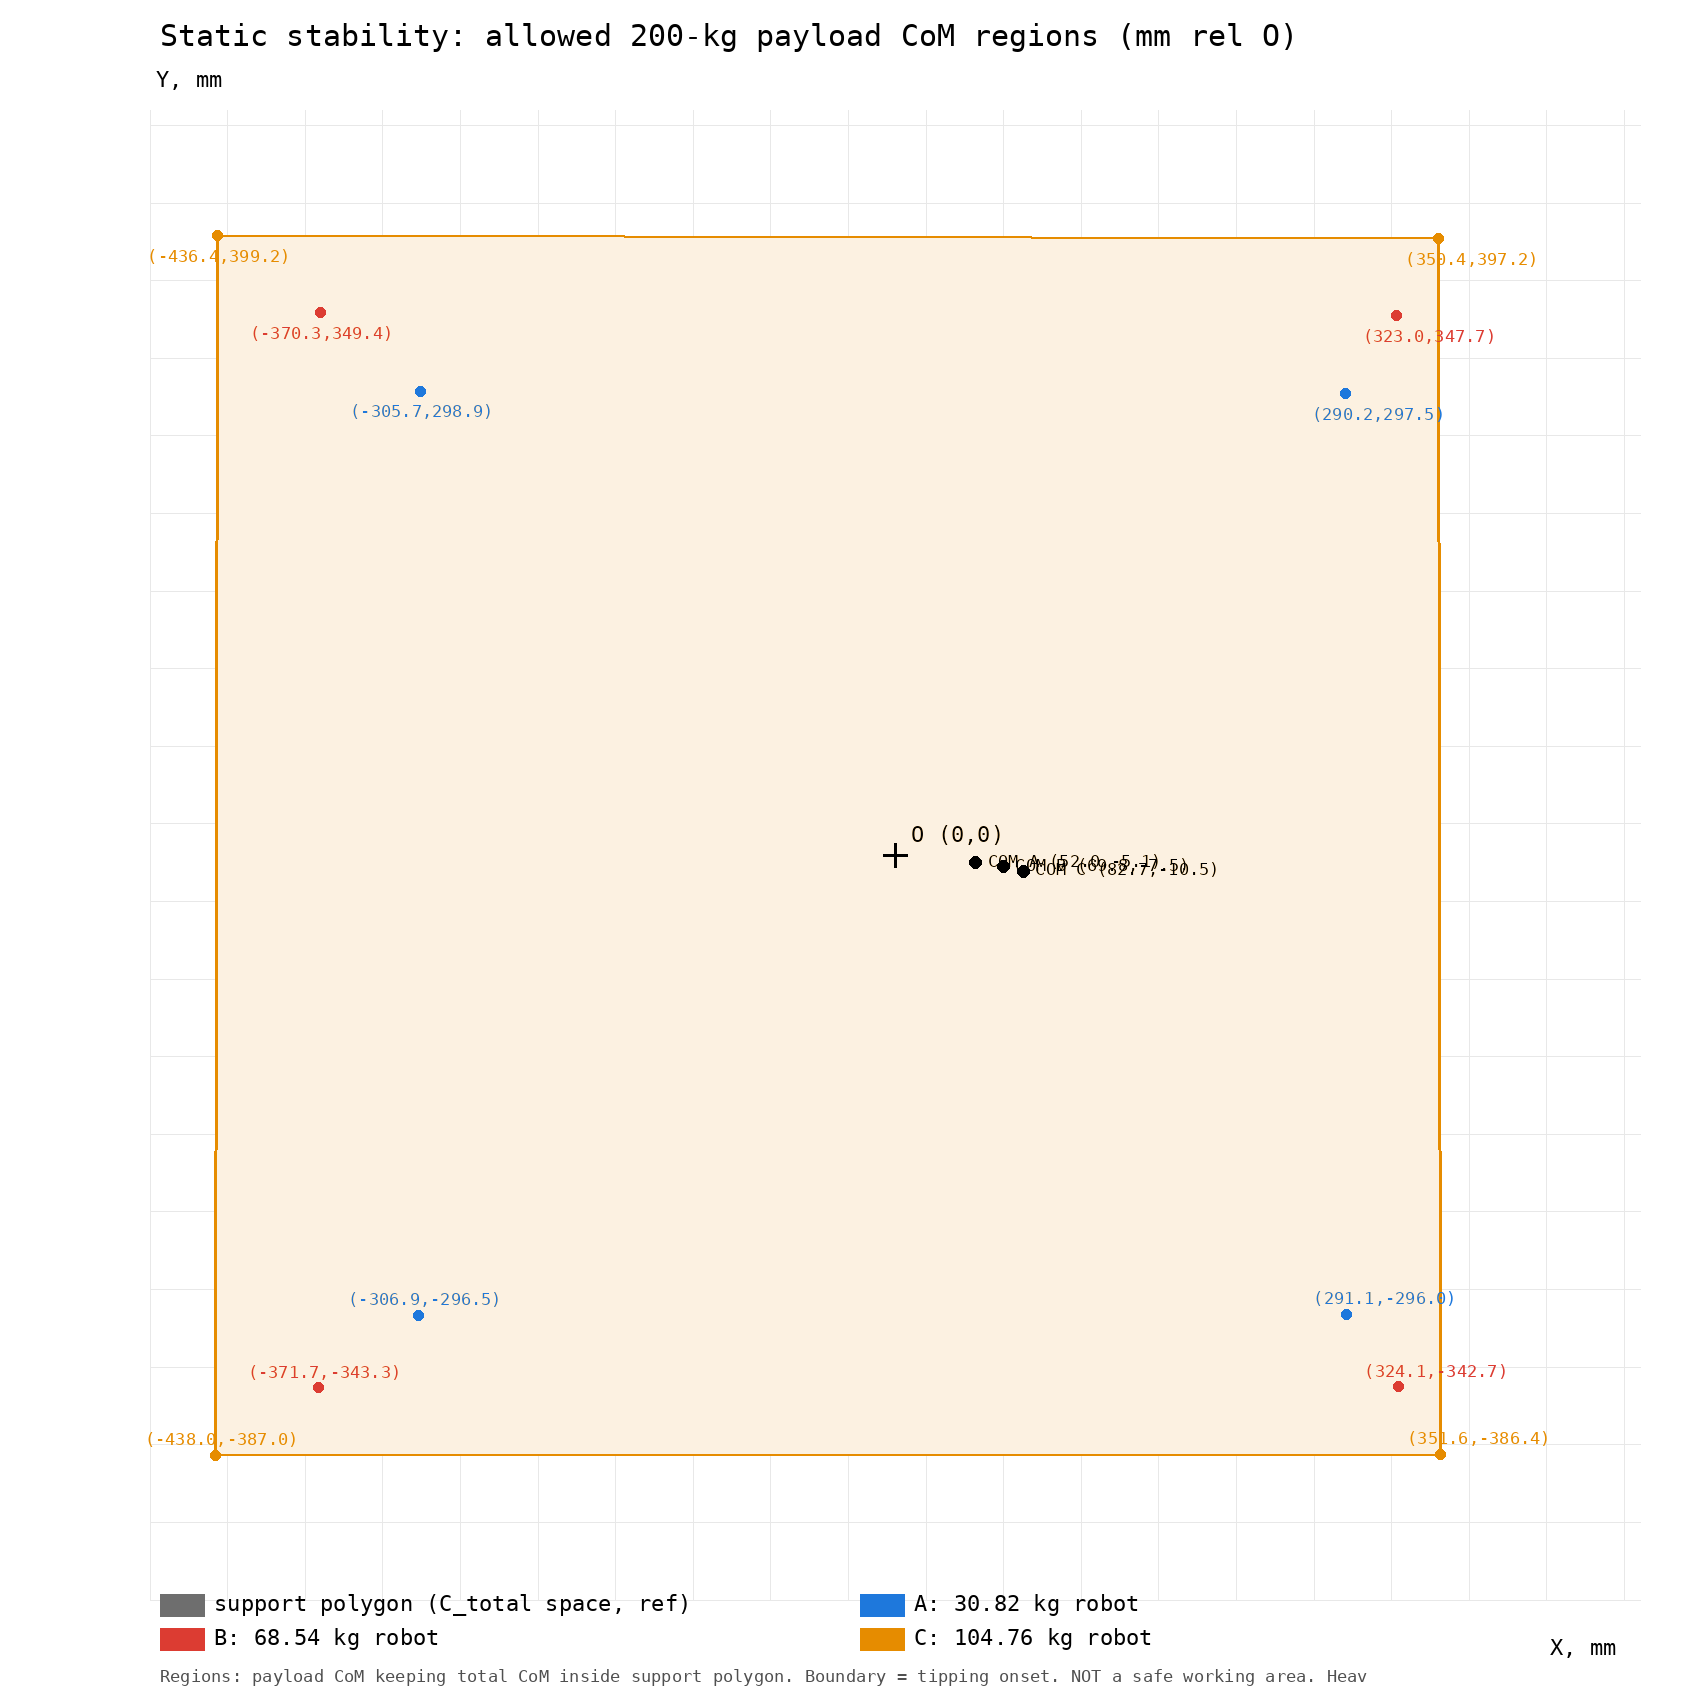
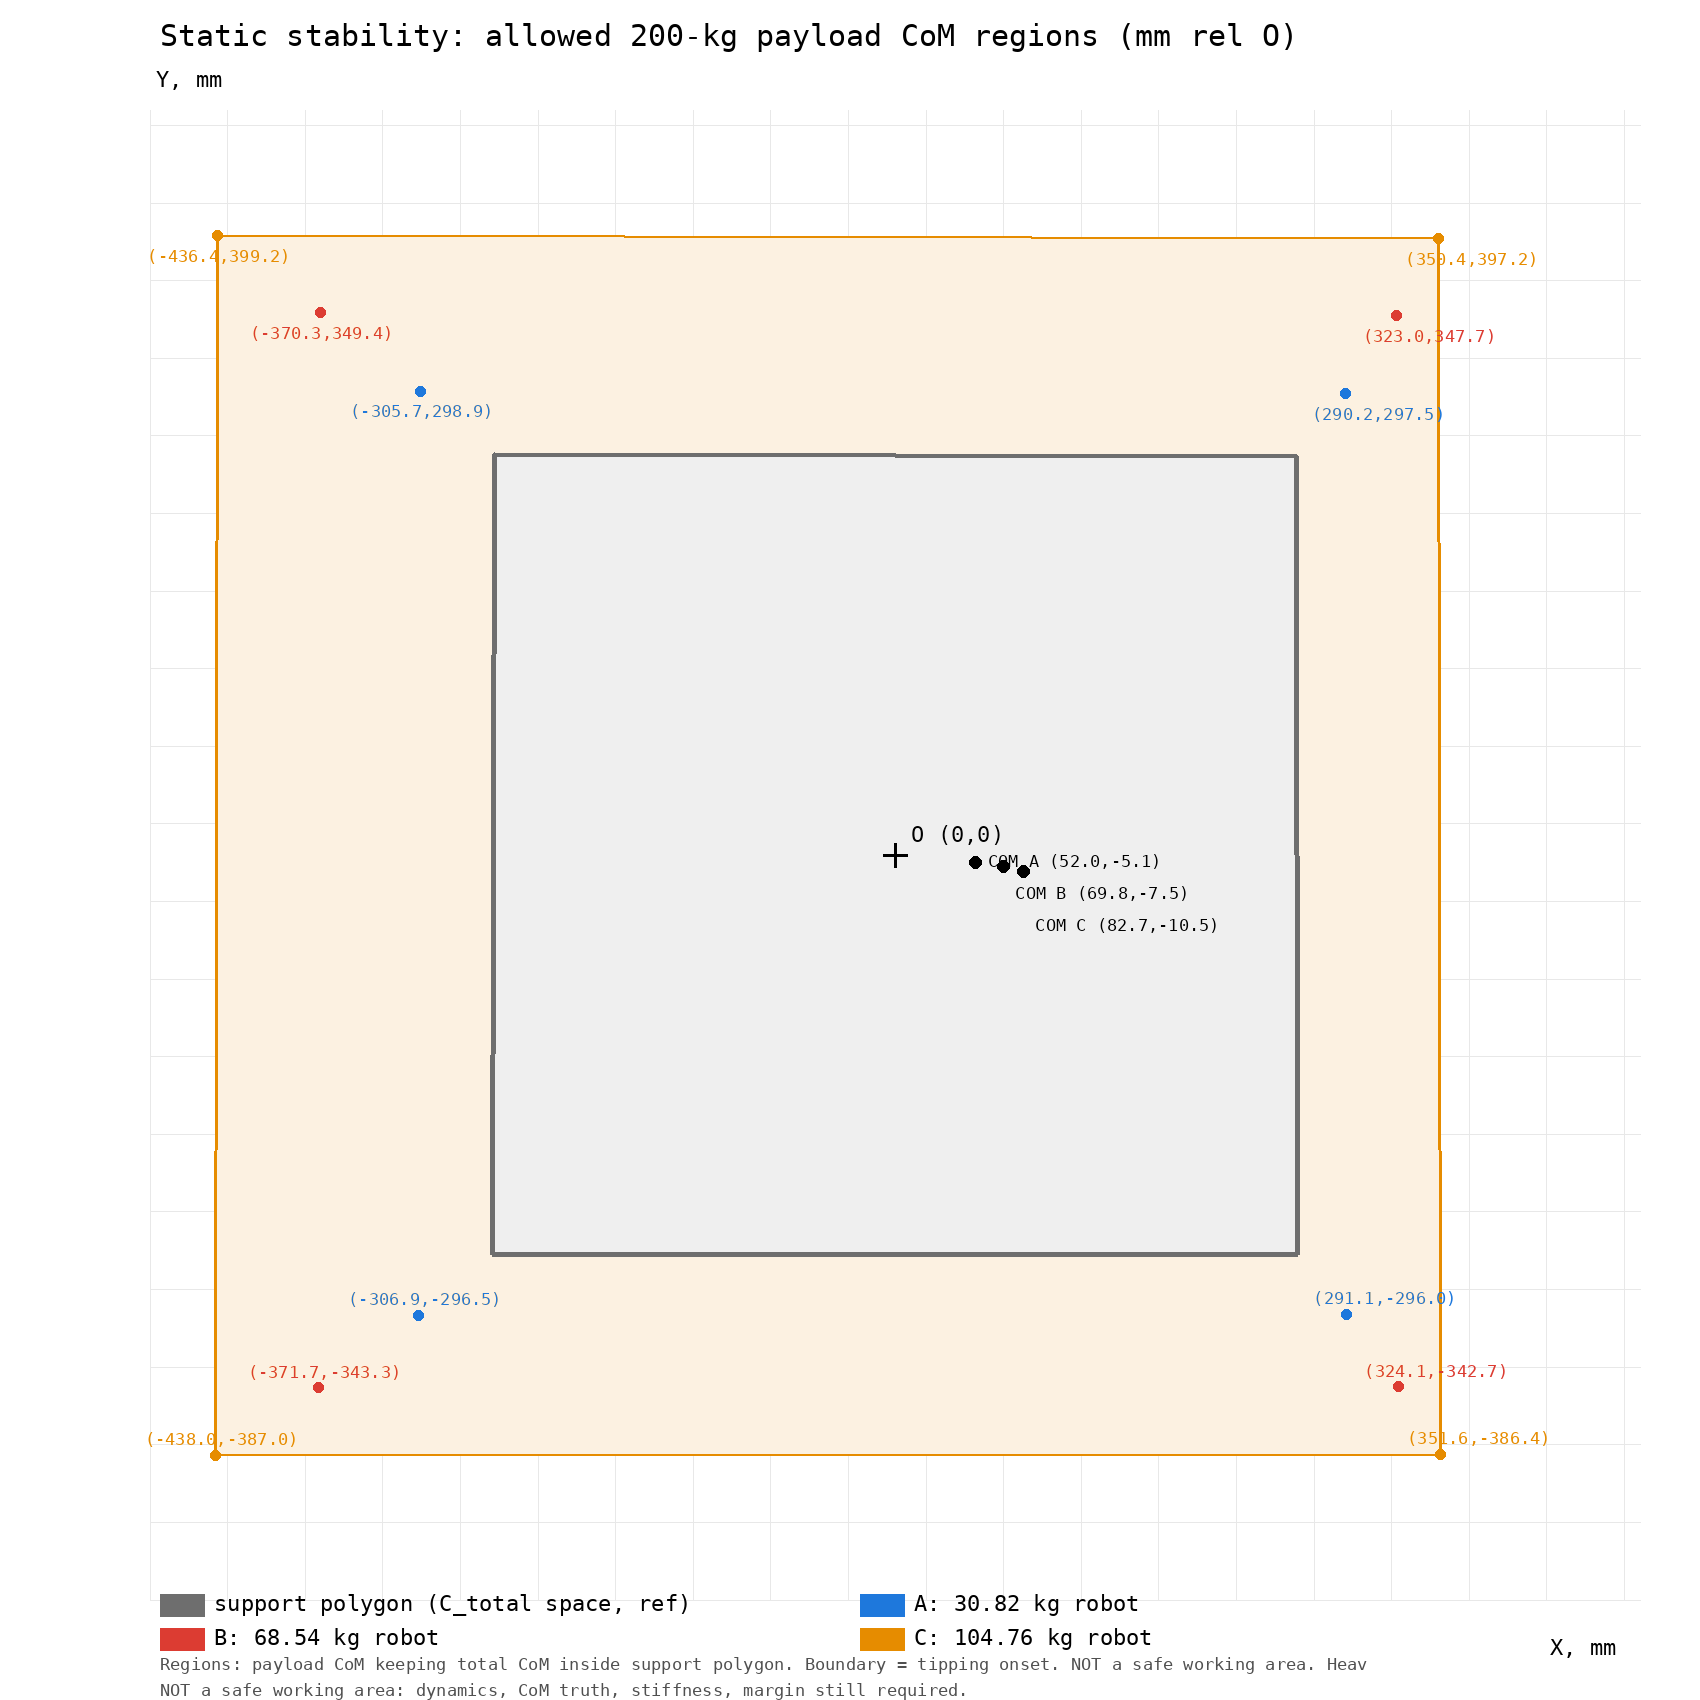
backup: payload CoM stability plot v2 + numbers

diff --git a/static_stability_payload_COM.py b/static_stability_payload_COM.py
@@ -85,9 +85,9 @@ def poly(pts, outline, fill, width=3):
     dr.line([mp(x, y) for x, y in pts] + [mp(*pts[0])], fill=outline, width=width, joint="curve")
 
 
-poly(SUP, COLORS["SUP"], COLORS["SUPF"])
 for s in "ABC":
     poly(REG[s]["P"], COLORS[s], COLORS[s + "F"])
+poly(SUP, COLORS["SUP"], COLORS["SUPF"], 5)
 
 for s in "ABC":
     pts = REG[s]["P"]
@@ -104,11 +104,12 @@ ox, oy = mp(0, 0)
 dr.line([ox - 12, oy, ox + 12, oy], fill=(0, 0, 0, 255), width=3)
 dr.line([ox, oy - 12, ox, oy + 12], fill=(0, 0, 0, 255), width=3)
 dr.text((ox + 16, oy - 34), "O (0,0)", font=f_leg, fill=(0, 0, 0, 255))
+OFF = {"A": (12, -12), "B": (12, 16), "C": (12, 44)}
 for s in "ABC":
     rx, ry = REG[s]["Rmm"]
     px, py = mp(rx, ry)
     dr.ellipse([px - 6, py - 6, px + 6, py + 6], fill=(0, 0, 0, 255))
-    dr.text((px + 12, py - 12), "COM %s (%.1f,%.1f)" % (s, rx, ry), font=f_lab, fill=(0, 0, 0, 255))
+    dr.text((px + OFF[s][0], py + OFF[s][1]), "COM %s (%.1f,%.1f)" % (s, rx, ry), font=f_lab, fill=(0, 0, 0, 255))
 
 dr.text((LM + 10, 18), "Static stability: allowed 200-kg payload CoM regions (mm rel O)", font=f_title, fill=(0, 0, 0, 255))
 leg = [("support polygon (C_total space, ref)", COLORS["SUP"]),
@@ -124,7 +125,8 @@ for txt, col in leg:
 note = ("Regions: payload CoM keeping total CoM inside support polygon. "
         "Boundary = tipping onset. NOT a safe working area. "
         "Heavier robot -> larger region (homothety k=(M+200)/200).")
-dr.text((LM + 10, H - 34), note[:118], font=f_lab, fill=(80, 80, 80, 255))
+dr.text((LM + 10, H - 46), note[:118], font=f_lab, fill=(80, 80, 80, 255))
+dr.text((LM + 10, H - 20), "NOT a safe working area: dynamics, CoM truth, stiffness, margin still required.", font=f_lab, fill=(80, 80, 80, 255))
 
 img = Image.alpha_composite(base.convert("RGBA"), ov).convert("RGB")
 img.save("/home/v/projects/робот/static_stability_payload_COM.png")
